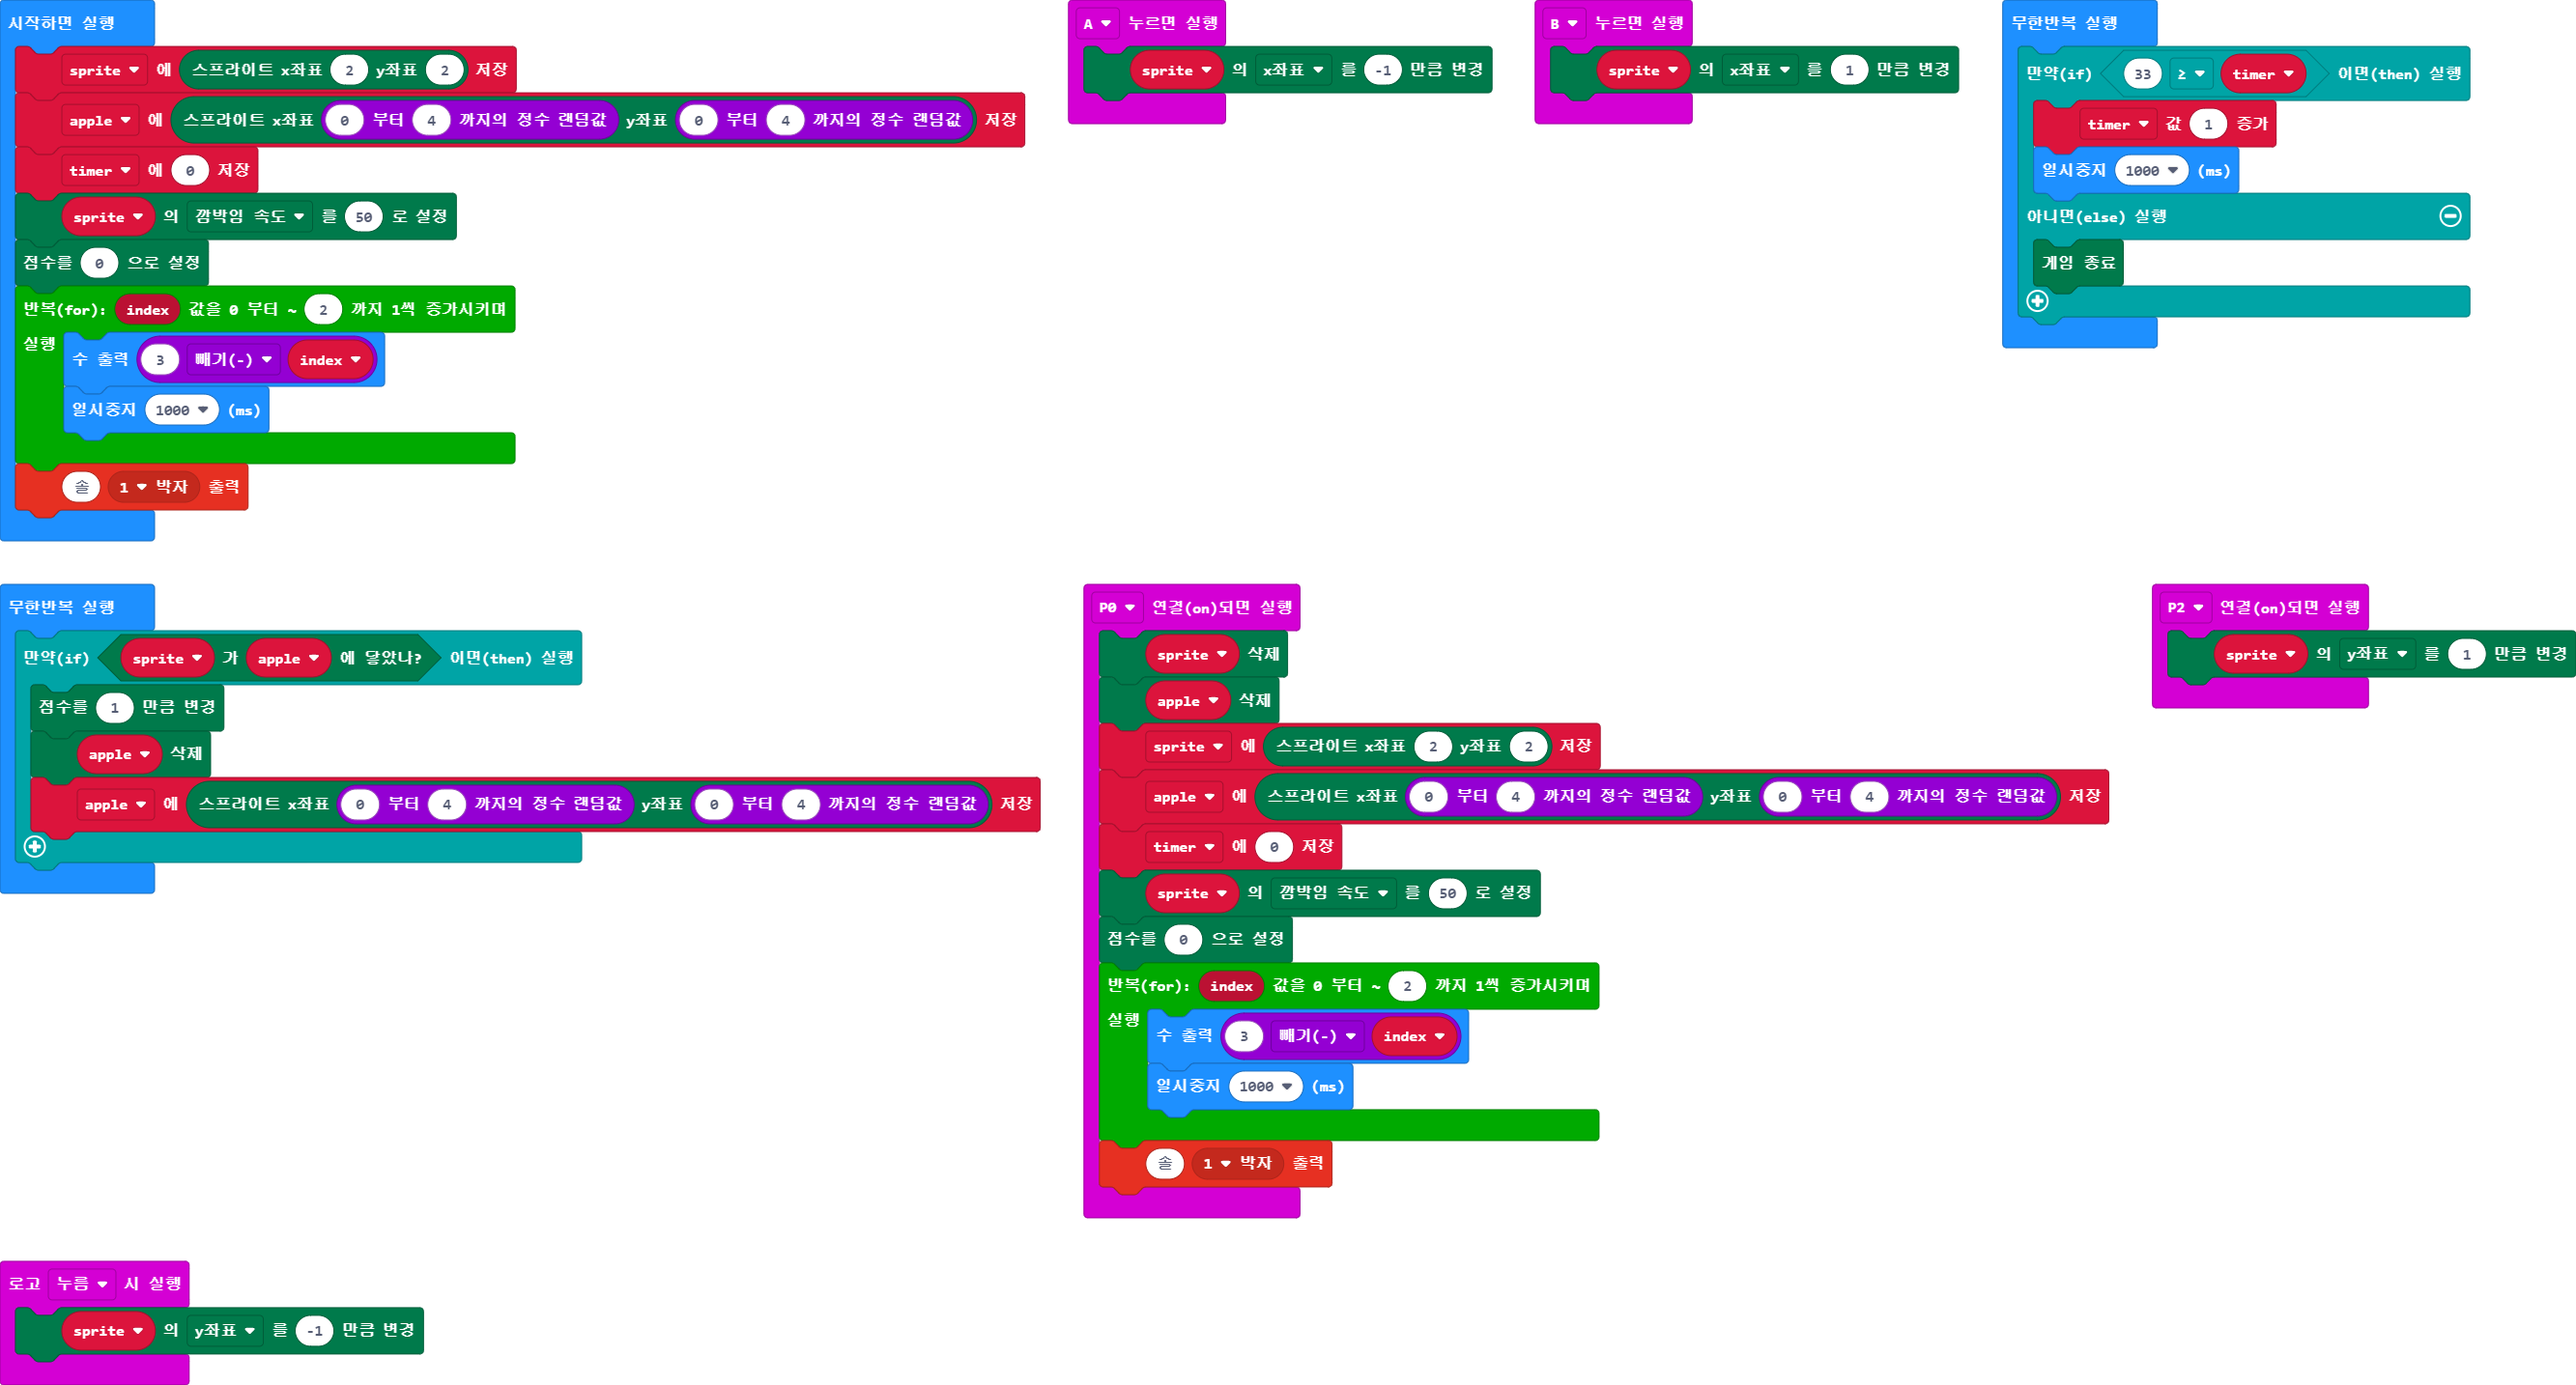
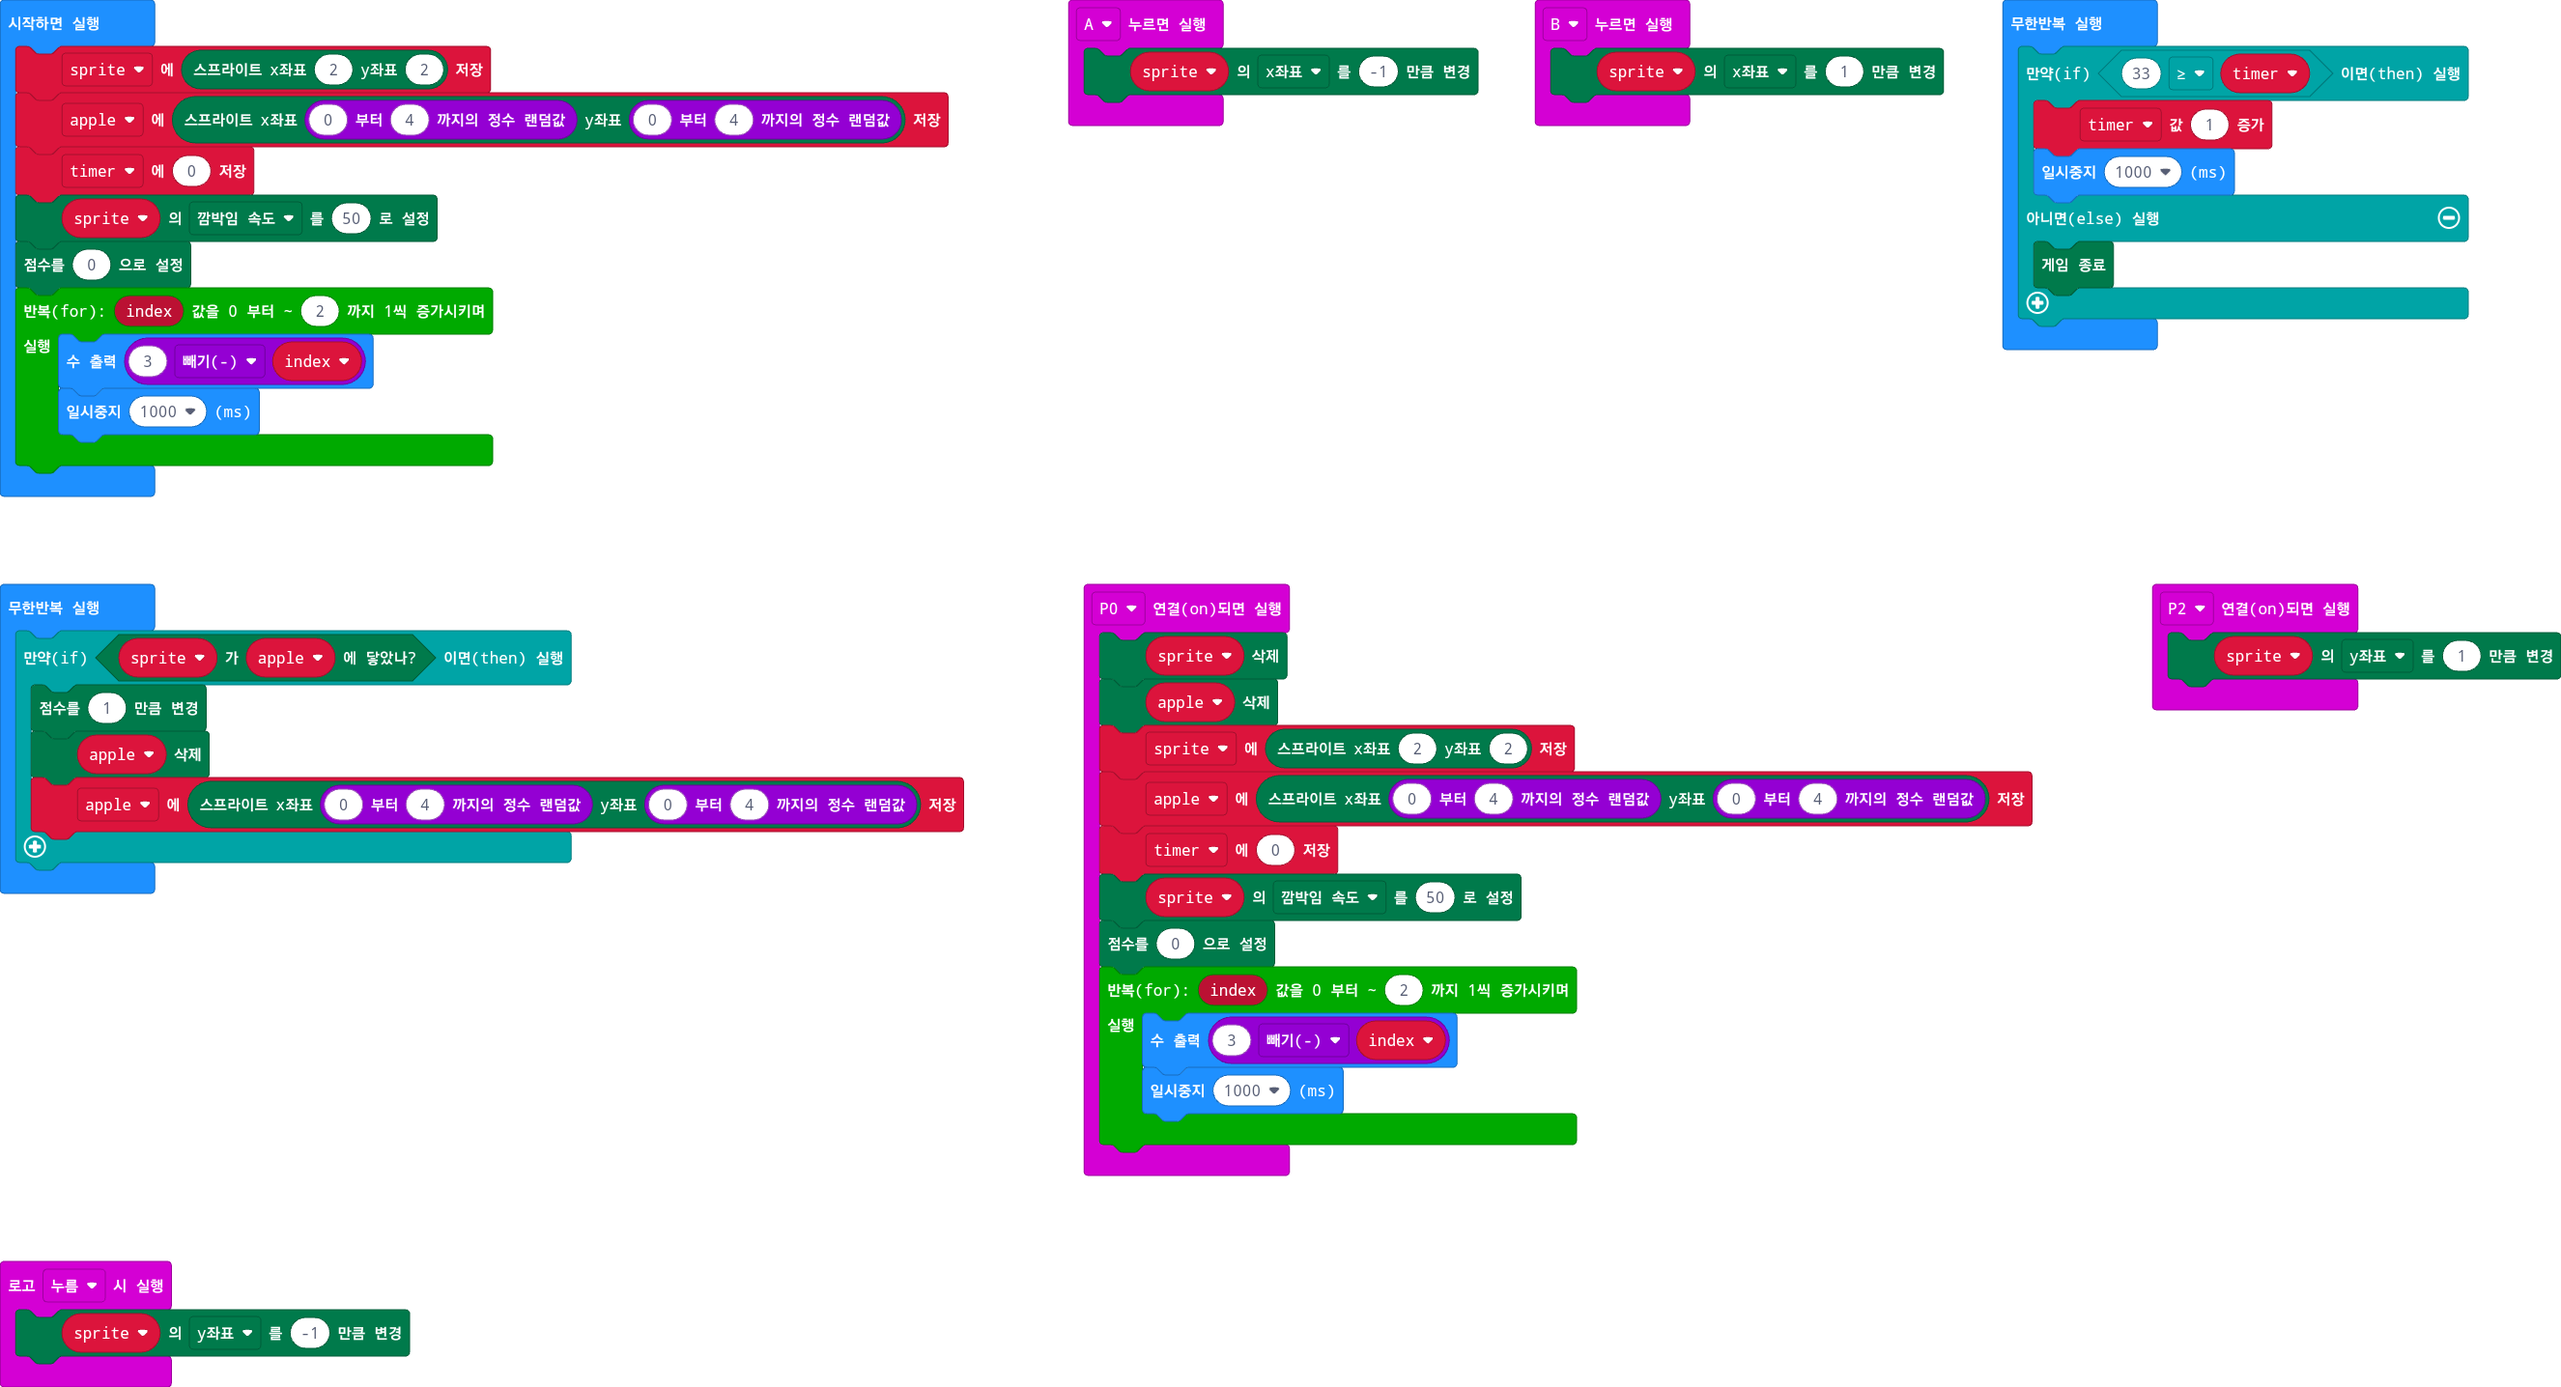
소리가 나오면 시물레이션 화면에서 크기가 작아져 버튼도 작아쟈서 잘 못누르게 되는 문제 해결

diff --git a/main.ts b/main.ts
@@ -10,7 +10,6 @@ input.onPinPressed(TouchPin.P0, function () {
         basic.showNumber(3 - index)
         basic.pause(1000)
     }
-    music.playTone(392, music.beat(BeatFraction.Whole))
 })
 input.onLogoEvent(TouchButtonEvent.Pressed, function () {
     sprite.change(LedSpriteProperty.Y, -1)
@@ -36,7 +35,6 @@ for (let index = 0; index <= 2; index++) {
     basic.showNumber(3 - index)
     basic.pause(1000)
 }
-music.playTone(392, music.beat(BeatFraction.Whole))
 basic.forever(function () {
     if (33 >= timer) {
         timer += 1
